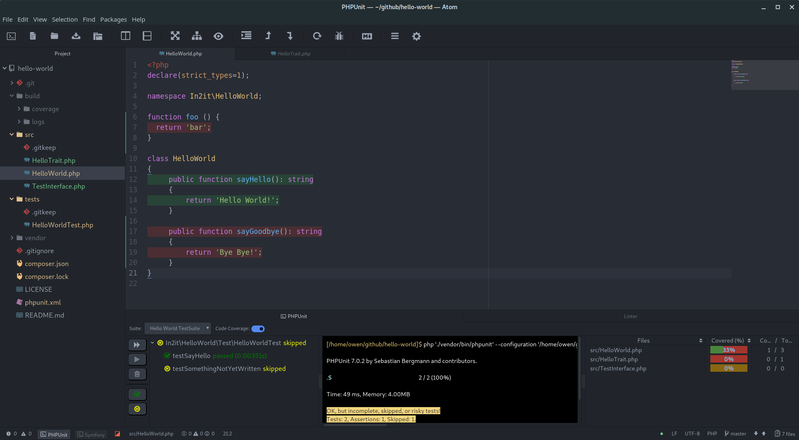
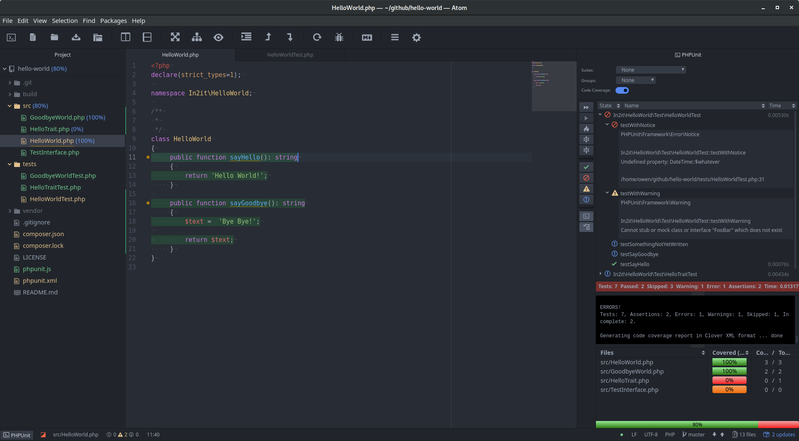
keybindings, screenshot, error handling

diff --git a/lib/proxy/php-unit-proxy.js b/lib/proxy/php-unit-proxy.js
@@ -61,13 +61,9 @@ export default class PhpUnitProxy
             point.row++
 
             const scope = this.getScopeForPoint(editor, point)
-            const error = this.service.getParseError(editor.getPath())
 
-            if (!scope && error) {
-                atom.notifications.addError(`Error parsing file ${editor.getPath()}`, {
-                    detail: error.message,
-                    dismissable: true
-                })
+            if (!scope) {
+                return this.displayFileError(editor.getPath())
             }
 
             return scope
@@ -169,16 +165,7 @@ export default class PhpUnitProxy
             return classInfos.map((info) => new PhpUnitScope(project, info))
         }
 
-        const error = this.service.getParseError(file)
-
-        if (error) {
-            atom.notifications.addError(`Error parsing file ${file}`, {
-                detail: error.message,
-                dismissable: true
-            })
-        }
-
-        return null
+        return this.displayFileError(file)
     }
 
     /**
@@ -198,6 +185,8 @@ export default class PhpUnitProxy
                 return new PhpUnitScope(project, classInfo)
             }
         }
+
+        return this.displayFileError(path)
     }
 
     /**
@@ -219,6 +208,8 @@ export default class PhpUnitProxy
                 return new PhpUnitScope(project, classInfo, methodInfo)
             }
         }
+
+        return this.displayFileError(path)
     }
 
     /**
@@ -430,7 +421,7 @@ export default class PhpUnitProxy
 
         this.clearRangesForEditor(editor)
 
-        const classInfos = await this.service.getClassInfosForFile(path, editor.getText(), true)
+        const classInfos = await this.service.getClassInfosForFile(path, editor.getText())
 
         if (classInfos) {
             const classRanges = []
@@ -480,5 +471,25 @@ export default class PhpUnitProxy
             }
             this.methodRanges.delete(editor)
         }
+    }
+
+    /**
+     * Displays an error notification for the parser error
+     *
+     * @param  {String} file - A file path with possible errors
+     *
+     * @return {Null}
+     */
+    displayFileError (file) {
+        const error = this.service.getParseError(file)
+
+        if (error) {
+            atom.notifications.addError(`Error parsing file '${file}'`, {
+                detail: error.message,
+                dismissable: true
+            })
+        }
+
+        return null
     }
 }

diff --git a/lib/proxy/php-core-service.js b/lib/proxy/php-core-service.js
@@ -42,13 +42,13 @@ export default class PhpCoreService
      * @param  {String}   file      - The full path to the file
      * @param  {String}   [content] - The optional content of the file
      *
-     * @return {Promise<Array<PhpClassInfo>>}
+     * @return {Promise<Array<PhpClassInfo>|Null>}
      */
     async getClassInfosForFile (file, content = null) {
         if (!await fileExists(file)) {
             delete this.cache[file]
 
-            return []
+            return null
         }
 
         return this.cache[file] || await this.loadCache(file, content || await readFile(file))
@@ -83,7 +83,7 @@ export default class PhpCoreService
      * @param  {String} file      - The full path to the file
      * @param  {String} [content] - The file contents if available
      *
-     * @return {Promise<Array<PhpClassInfo>>}
+     * @return {Promise<Array<PhpClassInfo>|Null>}
      */
     async reindex (file, content = null) {
         return this.loadCache(file, content || await readFile(file))

diff --git a/lib/workspace/php-unit-workspace.js b/lib/workspace/php-unit-workspace.js
@@ -177,7 +177,6 @@ export default class PhpUnitWorkspace
                 : this.proxy.getScopeForCursor(atom.workspace.getActiveTextEditor())
 
             if (!scope) {
-                // console.error('registerCommandHandlers::validate Failed to find a scope')
                 return
             }
 

diff --git a/README.md b/README.md
@@ -26,6 +26,8 @@ This is in beta mode at the moment. I would appreciate any testers and feedback.
 * `cmd-alt-y` | `ctrl-alt-y`: Runs all test suites in the `phpunit.xml` file
 * `cmd-alt-g` | `ctrl-alt-g`: Runs all files in the test directory
 * `cmd-alt-v` | `ctrl-alt-v`: Runs the test method under the cursor
+* `cmd-alt-k` | `ctrl-alt-k`: Goto the test class under the cursor
+* `cmd-alt-m` | `ctrl-alt-m`: Goto the test method under the cursor
 
 In addition to keyboard shortcuts, it is also possible to run tests and navigate
 to test files by right-clicking within a class or method body and selecting
